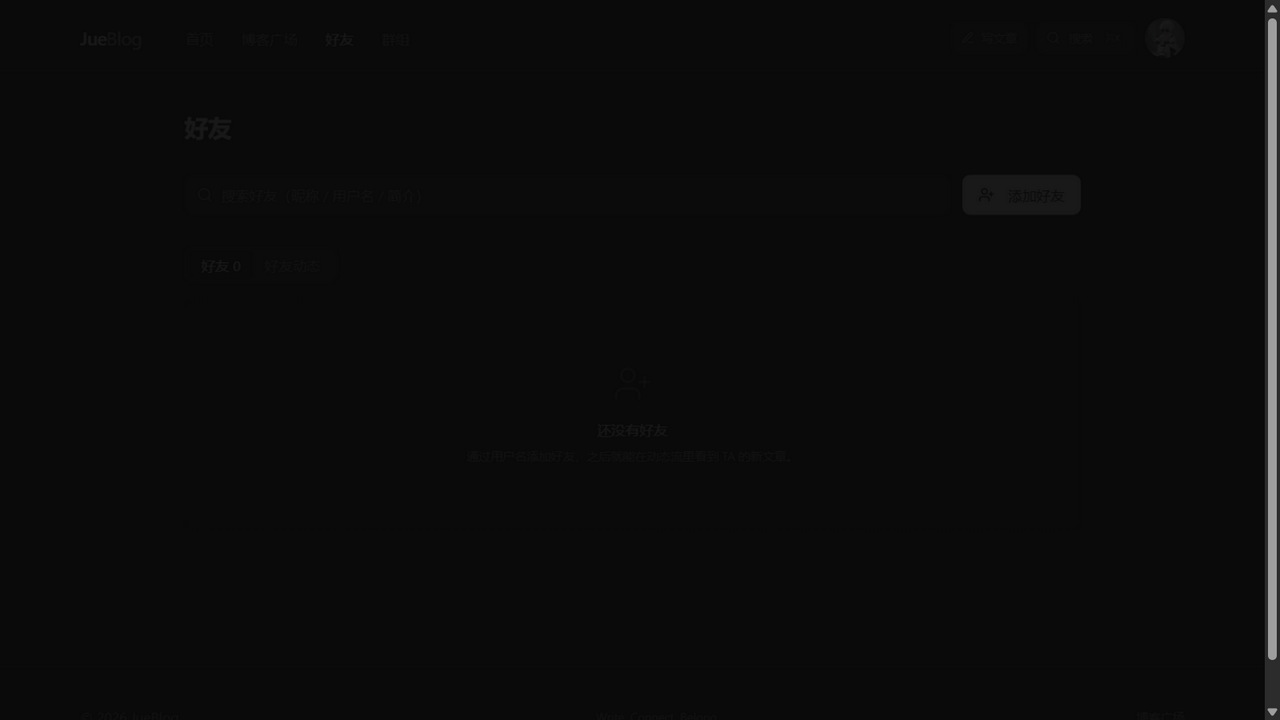
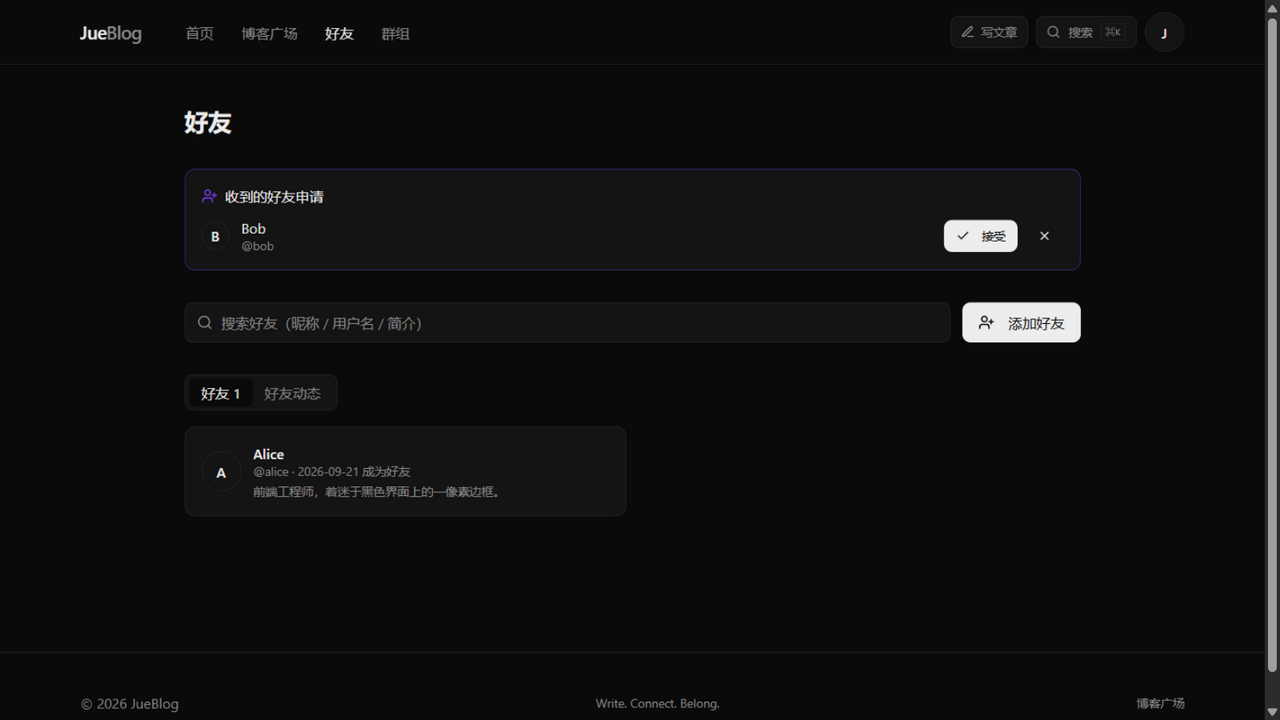
docs: 重截好友/群组页截图（完整数据 + 动画稳定后截图）+ 国内访问提示

diff --git a/README.md b/README.md
@@ -14,6 +14,8 @@
 
 **🌐 [在线体验 →](https://jueblog-juectovo.vercel.app)** · 打开后用 GitHub 登录即可玩转全部功能
 
+> **🇨🇳 国内访问提示**：GitHub 的图片代理（`camo.githubusercontent.com`）与 `*.vercel.app` 域名在国内需要代理访问——README 图片无法显示不影响项目功能与代码使用。部署自有域名后可国内直连（见下方部署说明）。
+
 </div>
 
 ## ✨ 截图
